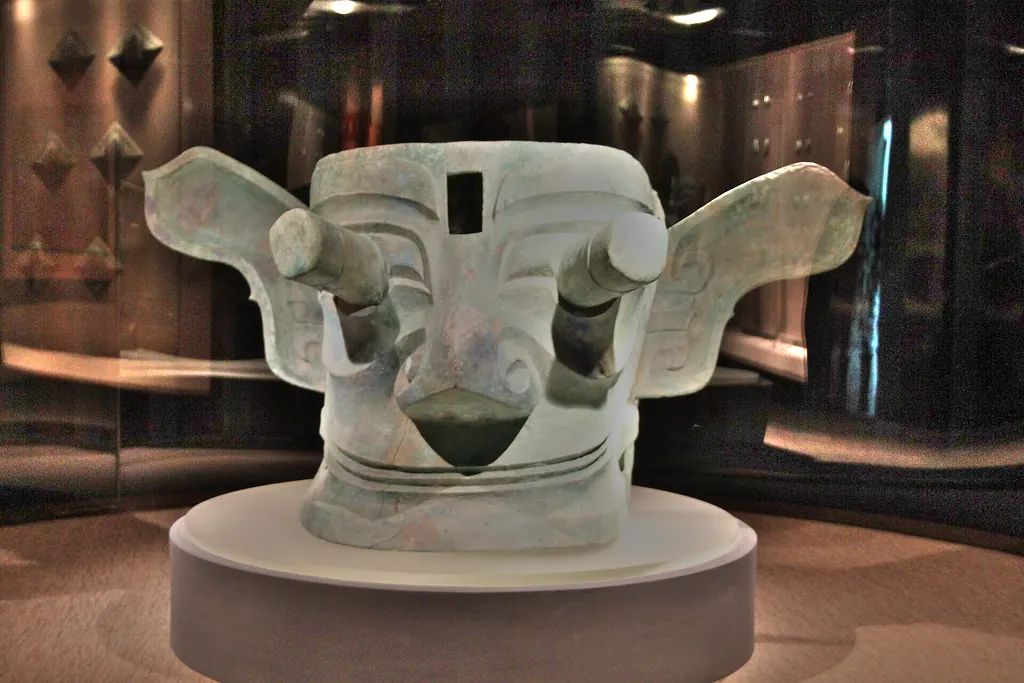
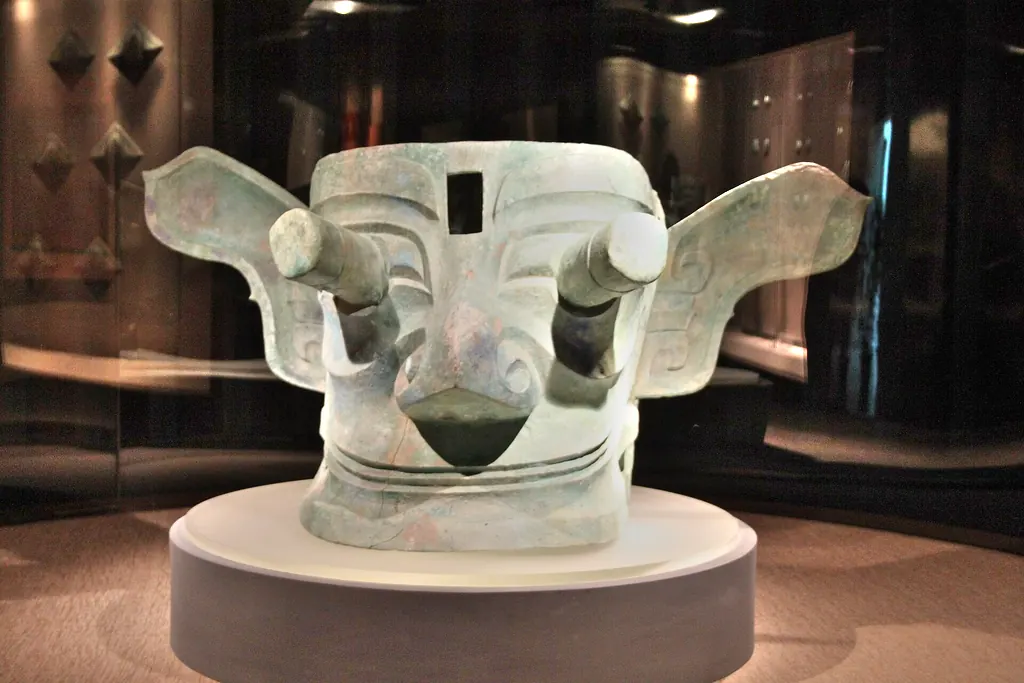
look v0.6.5：颜色贴近原照片、鼻翼卷云做成浮雕、眼眶鼻侧去锯齿

diff --git a/js/look.js b/js/look.js
@@ -1,4 +1,4 @@
-"use strict";const G={NOSEY:.96,NOSE:1.3,JAW:.9,BRISE:.51,LHD:14,LHY:12.5,SHD:8.2,SHY:52.9,BKUP:7,FL:18,RZ:25.32,HW:30,DB:47.43,H:66,TOPDROP:10.11,eye:{u:19.5,y:44.5},pillar:{r:5,len:14.65,dir:[6.79,6.26,17]},ear:{ang:7.92,dz:1.69,root:[[293,190],[260,170],[220,150],[180,140],[150,140],[135,152],[150,190],[185,225],[220,262],[245,292],[243,320],[247,348],[265,362],[293,368]],tip:42}};let ARC=null;function geo(){const t=[0];let n=0,r=0;for(let c=1;c<=400;c++){const d=Math.PI/2*c/400,x=G.HW*Math.sin(d),f=-G.RZ*(1-Math.cos(d));t.push(t[c-1]+Math.hypot(x-n,f-r)),n=x,r=f}ARC=t,G.S0=t[400],G.SM=G.S0+(G.DB-G.RZ)}const sm=(e,t,n)=>{const r=Math.min(1,Math.max(0,(n-e)/(t-e)));return r*r*(3-2*r)},lerpPts=(e,t)=>{if(t<=e[0][0])return e[0][1];for(let n=1;n<e.length;n++)if(t<=e[n][0]){const[r,c]=e[n-1],[d,x]=e[n],f=(t-r)/(d-r),m=f*f*(3-2*f);return c+(x-c)*m}return e[e.length-1][1]};function base(e){ARC||geo();const t=Math.sign(e)||1,n=Math.abs(e),r=ARC.length-1;if(n<=G.S0){let c=0,d=r;for(;d-c>1;){const w=c+d>>1;ARC[w]<n?c=w:d=w}const x=(n-ARC[c])/(ARC[d]-ARC[c]||1),f=Math.PI/2*(c+x)/r,m=G.HW*Math.sin(f),a=-G.RZ*(1-Math.cos(f)),u=G.HW*Math.cos(f),l=-G.RZ*Math.sin(f),h=Math.hypot(u,l);return{x:t*m,z:a,nx:t*-l/h,nz:u/h,q:m}}return{x:t*G.HW,z:-G.RZ-(n-G.S0),nx:t,nz:0,q:G.HW+(n-G.S0)}}const sOfQ=e=>{let t=0,n=G.SM;for(let r=0;r<40;r++){const c=(t+n)/2;base(c).q<e?t=c:n=c}return t},ytop=e=>G.H-G.TOPDROP*sm(G.FL,G.SM,base(e).q+Math.max(0,Math.abs(e)-G.S0)),band=(e,t)=>Math.exp(-(e*e)/(t*t));function segDist(e,t,n){let r=1e9,c=0;for(let d=1;d<n.length;d++){const[x,f]=n[d-1],[m,a]=n[d],u=m-x,l=a-f,h=Math.max(0,Math.min(1,((e-x)*u+(t-f)*l)/(u*u+l*l))),w=e-x-h*u,T=t-f-h*l,o=Math.hypot(w,T);o<r&&(r=o,c=(d-1+h)/(n.length-1))}return[r,c]}const BROW=[[5,49.5],[12,52.5],[20,55],[28,56.5],[33,56]],LID=[[8,47.6],[15,49.2],[23,50.4],[31,51]],GROOVE={top:[[40,55.8],[37.9,51.6],[35.1,49],[29.9,49.5],[27.8,51.6],[22.4,54.1],[11.5,56.7],[6.5,57.1]],brow:[[32.8,44.7],[29.9,45],[28.1,46.5],[23.6,48],[14.2,49.8]],lid:[[30.9,42],[29.9,39.9],[29.1,37.9],[26,37.9],[21.6,39.3],[18,41.1]],cheek:[[30,31.9],[29.4,29.1],[27.3,26.4],[23,25.6],[16.1,26.4],[11,28]]},GW={top:[2.2,1],brow:[2.4,1],lid:[1.8,1],cheek:[2.8,1.6]},MOUTH=[[5.5,14.6],[14.1,14.1],[22.3,14.7],[26.6,16.5],[28.6,19.5],[29.9,23.8]];function relief(e,t){const n=base(e).q;let r=0;{const c=Math.cos(.21),d=Math.sin(.21),x=n-G.eye.u,f=t-G.eye.y,m=(x*c+f*d)/11.5,a=(-x*d+f*c)/5.6,u=m*m+a*a;r+=3*Math.pow(Math.max(0,1-u),.55)}{const[c]=segDist(n,t,BROW);r+=1.6*band(c,1.5);const[d]=segDist(n,t,LID);r+=1.1*band(d,1.1)}if(n<16&&t>12&&t<52){const c=t-G.NOSEY,d=lerpPts([[18,0],[21,9],[24,13.5],[27,15],[32,11],[38,5.5],[44,2],[49,0]],c),x=lerpPts([[18,11],[24,12],[30,10.5],[38,6.5],[48,3.5]],c),f=n/x;f<1&&(r+=G.NOSE*d*Math.pow(1-f*f*f,.8)),r+=2.6*band(Math.hypot(n-9,c-24.5),3.4)}if(n<33){const c=lerpPts(MOUTH,n),d=sm(33,29,n);r+=d*(-2.2*band(t-c,.9)+1.4*band(t-c-1.9,1.2)+1.1*band(t-c+2.1,1.3))}for(const c in GROOVE){const[d,x]=segDist(n,t,GROOVE[c]),[f,m]=GW[c];r-=f*band(d,m)*sm(0,.1,x)*sm(1,.9,x)}return r+=2*Math.exp(-((n-13)*(n-13))/220-(t-31)*(t-31)/160),r*=sm(0,1.5,t-ybot(e))*sm(0,1.2,ytop(e)-t)*sm(0,1.5,G.SM-Math.abs(e)),r}const JAWP=[[0,15],[4,13],[8,11],[13,9.5],[17,9],[19.5,6],[22,3.5],[26,2],[34,.6],[45,0]],jawF=e=>1-sm(G.S0*.25,G.S0+6,Math.abs(e)),ybot=e=>G.BRISE*jawF(e)+G.BKUP*Math.min(1,Math.max(0,(Math.abs(e)-G.S0+6)/(G.SM-G.S0+6))),lean=(e,t)=>G.JAW*lerpPts(JAWP,t)*jawF(e);let DISP={d:4,sig:4,c:[[-.84,-.99,-1.22,-1.34,-1.38,-1.47,-1.45,-.75,.51,.86,.92,1,.84,.55,.33,.06,-.14,-.15],[-.77,-.96,-1.26,-1.36,-1.38,-1.73,-2.24,-2.17,-.77,.34,.88,1.22,1.01,.56,.4,.17,-.06,-.08],[-.59,-.8,-1.12,-1.16,-1.23,-1.88,-2.59,-2.51,-1.17,.06,.65,1.06,.97,.62,.67,.53,.17,0],[-.28,-.51,-.87,-.95,-1.13,-1.58,-1.59,-.71,.33,.56,.29,.26,.65,.84,.97,.86,.47,.28],[0,-.18,-.46,-.62,-.9,-1.04,-.5,.42,.42,.42,.3,.06,.49,.79,.91,.89,.68,.53],[0,-.07,-.14,-.35,-.7,-.77,-.14,.35,-.3,-.21,.13,.16,.52,.8,.93,.95,.79,.66],[-.08,-.11,-.16,-.36,-.71,-.77,-.1,.25,-.3,-.41,-.16,.07,.55,.83,1.02,1.1,.87,.72],[-.13,-.19,-.31,-.54,-.9,-1.09,-.57,-.19,-.49,-.55,-.34,-.1,.37,.51,.69,.93,.79,.68],[-.14,-.23,-.46,-.74,-1.03,-1.18,-.9,-.46,-.61,-.64,-.41,-.18,.17,.15,.2,.5,.59,.6],[-.09,-.19,-.61,-1.02,-1.19,-1.27,-1.13,-.49,-.56,-.77,-.44,-.19,.1,.11,.07,.32,.52,.57],[-.08,-.18,-.79,-1.36,-1.38,-1.33,-1.18,-.74,-.79,-.82,-.4,-.3,0,.16,.17,.39,.62,.65],[-.09,-.15,-.59,-1.28,-1.36,-1.21,-1.11,-1.02,-1.03,-.85,-.39,-.17,.24,.34,.35,.51,.7,.69],[-.12,-.19,-.55,-1.29,-1.27,-.85,-.89,-.92,-.83,-.68,-.38,0,.34,.4,.45,.52,.59,.59],[-.09,-.14,-.43,-1.17,-1.22,-.72,-.73,-.66,-.54,-.48,-.25,.14,.41,.44,.53,.52,.51,.51],[0,0,-.26,-1.11,-1.28,-.85,-.52,.17,.14,-.3,-.18,.29,.56,.59,.66,.6,.51,.48],[0,0,-.21,-.7,-.85,-.55,.39,1.86,1.79,.65,.28,.44,.56,.66,.69,.61,.51,.47],[-.08,-.11,-.22,-.4,-.41,-.06,.81,1.95,2.21,1.63,1.21,1,.75,.75,.71,.61,.51,.46],[-.1,-.13,-.19,-.24,-.16,.18,.81,1.5,1.78,1.6,1.32,1.08,.84,.75,.68,.58,.5,.46]]};function disp(e,t){if(!DISP)return 0;const n=Math.abs(e),r=DISP.d,c=DISP.sig*DISP.sig,d=Math.round(n/r),x=Math.round(t/r);let f=0;for(let m=d-2;m<=d+2;m++)if(!(m<0||m>=DISP.c.length))for(let a=x-2;a<=x+2;a++)a<0||a>=DISP.c[m].length||!DISP.c[m][a]||(f+=DISP.c[m][a]*Math.exp(-((n-m*r)**2+(t-a*r)**2)/c));return f}function shellP(e,t,n=0){const r=base(e),c=relief(e,t)+n+disp(e,t);return[r.x+r.nx*c,t,r.z+r.nz*c+lean(e,t)]}const hole=(e,t)=>{const n=Math.abs(e),r=G.SM-n;return n<3.4&&t>52.8&&t<63.3||r>G.SHD-3.5&&r<G.SHD+3.5&&t>G.SHY-3.5&&t<G.SHY+3.5||r>G.LHD-3&&r<G.LHD+3&&t>G.LHY-3.5&&t<G.LHY+3.5},V={add:(e,t)=>[e[0]+t[0],e[1]+t[1],e[2]+t[2]],sub:(e,t)=>[e[0]-t[0],e[1]-t[1],e[2]-t[2]],mul:(e,t)=>[e[0]*t,e[1]*t,e[2]*t],cross:(e,t)=>[e[1]*t[2]-e[2]*t[1],e[2]*t[0]-e[0]*t[2],e[0]*t[1]-e[1]*t[0]],dot:(e,t)=>e[0]*t[0]+e[1]*t[1]+e[2]*t[2],norm:e=>{const t=Math.hypot(e[0],e[1],e[2])||1;return[e[0]/t,e[1]/t,e[2]/t]}};function pillarFrame(e){const t=shellP(e*sOfQ(G.eye.u),G.eye.y,-1.5),n=V.norm([e*G.pillar.dir[0],G.pillar.dir[1],G.pillar.dir[2]]);return{B:t,D:n,T:V.add(t,V.mul(n,G.pillar.len+1.5))}}function earPts(e){const t=G.ear.root.map(([x,f])=>[(293-x)/4.96/.91,(503-f)/5.5]),n=G.ear.tip/Math.max(...t.map(x=>x[0])),r=G.ear.ang*Math.PI/180,c=[e*Math.cos(r),0,-Math.sin(r)],d=[e*G.HW,0,-G.DB+.3+(G.ear.dz||0)];return{uv:t.map(([x,f])=>[x*n,f]),h:c,O:d,n:[e*Math.sin(r),0,Math.cos(r)]}}function buildMask(){geo();const e=[],t=[],n=[],r=[],c=(m,a,u,l,h)=>(e.push(m[0],m[1],m[2]),t.push(a[0],a[1],a[2]),n.push(u,l,h),e.length/3-1),d=Math.ceil(2*G.SM/.6),x=110,f=[];for(let m=0;m<=d;m++){const a=-G.SM+2*G.SM*m/d,u=ytop(a),l=ybot(a);f.push([]);for(let h=0;h<=x;h++){const w=l+(u-l)*h/x,T=.05,o=shellP(a,w),A=V.sub(shellP(a+T,w),shellP(a-T,w)),D=V.sub(shellP(a,Math.min(u,w+T)),shellP(a,Math.max(l,w-T)));f[m].push(c(o,V.norm(V.cross(A,D)),0,a,w))}}for(let m=0;m<d;m++)for(let a=0;a<x;a++){const u=f[m][a],l=f[m+1][a],h=f[m+1][a+1],w=f[m][a+1];r.push(u,l,h,u,h,w)}for(const m of[-1,1]){const{B:a,D:u}=pillarFrame(m),l=V.norm(V.cross(V.cross(u,[0,1,0]),u)),h=V.cross(u,l),w=28,T=18,o=G.pillar.len+1.5,A=-3,D=e.length/3;for(let s=0;s<=T;s++){const v=s/T,g=A+(o-A)*v,b=g/o,I=G.pillar.r*(1+.07*band(b-.86,.035)-.015*b);for(let S=0;S<=w;S++){const L=2*Math.PI*S/w,_=V.add(V.mul(l,Math.cos(L)),V.mul(h,Math.sin(L)));c(V.add(V.add(a,V.mul(u,g)),V.mul(_,I)),_,1,m,b)}}for(let s=0;s<T;s++)for(let v=0;v<w;v++){const g=D+s*(w+1)+v,b=g+w+1;r.push(g,b,b+1,g,b+1,g+1)}const H=c(V.add(a,V.mul(u,o+.25)),u,1,m,1.01),y=e.length/3;for(let s=0;s<=w;s++){const v=2*Math.PI*s/w,g=V.add(V.mul(l,Math.cos(v)),V.mul(h,Math.sin(v)));c(V.add(V.add(a,V.mul(u,o)),V.mul(g,G.pillar.r*.985)),V.norm(V.add(u,V.mul(g,.35))),1,m,1)}for(let s=0;s<w;s++)r.push(H,y+s,y+s+1)}for(const m of[-1,1]){const a=earPts(m),u=a.uv.slice(),l=u.map((s,v)=>v),h=[],w=u.reduce((s,v,g)=>{const b=u[(g+1)%u.length];return s+v[0]*b[1]-b[0]*v[1]},0),T=w>0,o=(s,v,g)=>(v[0]-s[0])*(g[1]-s[1])-(v[1]-s[1])*(g[0]-s[0]),A=(s,v,g,b)=>{const I=o(v,g,s),S=o(g,b,s),L=o(b,v,s);return T?I>0&&S>0&&L>0:I<0&&S<0&&L<0};let D=0;for(;l.length>3&&D++<999;)for(let s=0;s<l.length;s++){const v=l[(s+l.length-1)%l.length],g=l[s],b=l[(s+1)%l.length],I=u[v],S=u[g],L=u[b],_=o(I,S,L);if(!(T?_<=0:_>=0)&&!l.some(F=>F!==v&&F!==g&&F!==b&&A(u[F],I,S,L))){h.push([I,S,L]),l.splice(s,1);break}}h.push(l.map(s=>u[s]));let H=h;for(let s=0;s<3;s++){const v=[];for(const[g,b,I]of H){const S=(N,O)=>[(N[0]+O[0])/2,(N[1]+O[1])/2],L=S(g,b),_=S(b,I),F=S(I,g);v.push([g,L,F],[L,b,_],[F,_,I],[L,_,F])}H=v}const y=([s,v])=>{const g=.012*s*s*.25;return V.add(V.add(a.O,V.mul(a.h,s)),V.add([0,v,0],V.mul(a.n,g)))};for(const s of H)for(const v of s){const g=y(v),b=.006*v[0]*.5;r.push(c(g,V.norm(V.sub(a.n,V.mul(a.h,b))),2,v[0],v[1]))}}return{P:new Float32Array(e),N:new Float32Array(t),A:new Float32Array(n),I:new Uint16Array(r)}}function marks(){geo();const e=pillarFrame(-1),t=pillarFrame(1),n=earPts(-1),r=earPts(1),c=f=>{const m=f.uv.reduce((a,u)=>u[0]>a[0]?u:a);return V.add(V.add(f.O,V.mul(f.h,m[0])),[0,m[1],0])},d=sOfQ(29),x=(f,m,a)=>{let u=null;for(let l=f;l<=m;l+=.05){const h=shellP(0,l);(!u||a*h[2]>a*u[2])&&(u=h)}return u};return{H:shellP(0,58),PL:e.T,PR:t.T,N:shellP(0,27+G.NOSEY),EL:c(n),ER:c(r),TL:shellP(-d,ytop(d)),TR:shellP(d,ytop(d)),BL:shellP(-G.S0,ybot(G.S0)),BR:shellP(G.S0,ybot(G.S0)),SL:shellP(-(G.SM-G.SHD),G.SHY),SR:shellP(G.SM-G.SHD,G.SHY),EYL:shellP(-sOfQ(G.eye.u),G.eye.y),EYR:shellP(sOfQ(G.eye.u),G.eye.y),KL:shellP(-G.SM,ytop(G.SM)),KR:shellP(G.SM,ytop(G.SM)),NI:shellP(0,31),BKL:shellP(-G.SM,ybot(G.SM)),BKR:shellP(G.SM,ybot(G.SM)),FT:shellP(0,G.H-.01),CH:shellP(0,ybot(0)+.01),NT:x(15,45,1),MR:x(17,28,-1),LHL:shellP(-(G.SM-G.LHD),G.LHY),LHR:shellP(G.SM-G.LHD,G.LHY)}}typeof module!="undefined"&&(module.exports={buildMask,marks,G,geo,setDisp:e=>{DISP=e},getDisp:()=>DISP,disp,shellP,uOfS:e=>base(e).q,sOfQ,relief});const CAMS={C0:[0,33,-15],cams:{a:[1759.19448,-.09916,.06873,-.00799,444.85047,323.57364,332.40516],c:[1817.05034,1.13481,.05479,.02231,572.51846,332.36423,295.54044],e:[1735.38662,-1.06238,.17511,-.02144,385.85542,323.03339,270.73041],d:[1027.06939,3.11928,.19777,-.0041,459.1956,347.48563,132.67155]}},PHOTOS=[["a","\u6B63\u9762"],["c","\u5DE6\u4FA7"],["e","\u53F3\u4FA7"],["d","\u80CC\u9762\uFF08\u5185\u58C1\uFF09"]];function camR(e,t,n){const r=Math.cos(e),c=Math.sin(e),d=Math.cos(t),x=Math.sin(t),f=Math.cos(n),m=Math.sin(n),a=[[r,0,c],[0,1,0],[-c,0,r]],u=[[1,0,0],[0,d,-x],[0,x,d]],l=[[f,-m,0],[m,f,0],[0,0,1]],h=(w,T)=>w.map(o=>T[0].map((A,D)=>o.reduce((H,y,s)=>H+y*T[s][D],0)));return h(l,h(u,a))}function camOf(e){const[t,n,r,c,d,x,f]=CAMS.cams[e],m=camR(n,r,c),a=CAMS.C0,u=[0,1,2].map(l=>a[l]+m[2][l]*f);return{f:t,R:m,tx:d,ty:x,dist:f,pos:u,C0:a}}function projCam(e,t){const n=[t[0]-e.C0[0],t[1]-e.C0[1],t[2]-e.C0[2]],r=e.R.map(d=>d[0]*n[0]+d[1]*n[1]+d[2]*n[2]),c=e.dist-r[2];return[e.tx+e.f*r[0]/c,e.ty-e.f*r[1]/c,r[2]]}function visibility(e,t){const n=e.P.length/3,r=new Float32Array(n*4),c=480,d=320,x=.5;return t.forEach((f,m)=>{const a=new Float32Array(n*3);for(let l=0;l<n;l++){const h=projCam(f,[e.P[l*3],e.P[l*3+1],e.P[l*3+2]]);a[l*3]=h[0]*x,a[l*3+1]=h[1]*x,a[l*3+2]=h[2]}const u=new Float32Array(c*d).fill(-1e9);for(let l=0;l<e.I.length;l+=3){const h=e.I[l]*3,w=e.I[l+1]*3,T=e.I[l+2]*3,o=a[h],A=a[h+1],D=a[w],H=a[w+1],y=a[T],s=a[T+1],v=(H-s)*(o-y)+(y-D)*(A-s);if(Math.abs(v)<1e-9)continue;const g=Math.max(0,Math.floor(Math.min(o,D,y))),b=Math.min(c-1,Math.ceil(Math.max(o,D,y))),I=Math.max(0,Math.floor(Math.min(A,H,s))),S=Math.min(d-1,Math.ceil(Math.max(A,H,s)));for(let L=I;L<=S;L++)for(let _=g;_<=b;_++){const F=((H-s)*(_-y)+(y-D)*(L-s))/v,N=((s-A)*(_-y)+(o-y)*(L-s))/v,O=1-F-N;if(F<-.01||N<-.01||O<-.01)continue;const B=F*a[h+2]+N*a[w+2]+O*a[T+2],k=L*c+_;B>u[k]&&(u[k]=B)}}for(let l=0;l<n;l++){const h=Math.round(a[l*3]),w=Math.round(a[l*3+1]);let T=0,o=0;for(let A=-1;A<=1;A++)for(let D=-1;D<=1;D++){const H=h+D,y=w+A;o++,!(H<0||y<0||H>=c||y>=d)&&a[l*3+2]>=u[y*c+H]-1.2&&T++}r[l*4+m]=T/o}}),r}typeof module!="undefined"&&Object.assign(module.exports,{CAMS,camOf,projCam,visibility}),typeof document!="undefined"&&function(){const e=document.getElementById("gl"),t=e.getContext("webgl",{antialias:!0,preserveDrawingBuffer:/[?&]shot/.test(location.search)}),n=i=>document.getElementById(i);if(!t){n("msg").textContent="\u8FD9\u53F0\u624B\u673A\u7684\u6D4F\u89C8\u5668\u4E0D\u652F\u6301 WebGL\uFF0C\u770B\u4E0D\u4E86 3D\u3002\u53EF\u4EE5\u770B\u4E0B\u9762\u7684\u539F\u7167\u7247\u3002";return}const r=buildMask(),c=PHOTOS.map(([i])=>camOf(i)),d=visibility(r,c),x=`attribute vec3 p; attribute vec3 n; attribute vec3 a; attribute vec4 v; uniform mat4 VP; varying vec3 wp; varying vec3 wn; varying vec3 wa; varying vec4 vv;
+"use strict";const G={NOSEY:.96,NOSE:1.3,JAW:.9,BRISE:.51,LHD:14,LHY:12.5,SHD:8.2,SHY:52.9,BKUP:7,FL:18,RZ:25.32,HW:30,DB:47.43,H:66,TOPDROP:10.11,eye:{u:19.5,y:44.5},pillar:{r:5,len:14.65,dir:[6.79,6.26,17]},ear:{ang:7.92,dz:1.69,root:[[293,190],[260,170],[220,150],[180,140],[150,140],[135,152],[150,190],[185,225],[220,262],[245,292],[243,320],[247,348],[265,362],[293,368]],tip:42}};let ARC=null;function geo(){const t=[0];let n=0,a=0;for(let c=1;c<=400;c++){const u=Math.PI/2*c/400,x=G.HW*Math.sin(u),f=-G.RZ*(1-Math.cos(u));t.push(t[c-1]+Math.hypot(x-n,f-a)),n=x,a=f}ARC=t,G.S0=t[400],G.SM=G.S0+(G.DB-G.RZ)}const sm=(e,t,n)=>{const a=Math.min(1,Math.max(0,(n-e)/(t-e)));return a*a*(3-2*a)},lerpPts=(e,t)=>{if(t<=e[0][0])return e[0][1];for(let n=1;n<e.length;n++)if(t<=e[n][0]){const[a,c]=e[n-1],[u,x]=e[n],f=(t-a)/(u-a),m=f*f*(3-2*f);return c+(x-c)*m}return e[e.length-1][1]};function base(e){ARC||geo();const t=Math.sign(e)||1,n=Math.abs(e),a=ARC.length-1;if(n<=G.S0){let c=0,u=a;for(;u-c>1;){const w=c+u>>1;ARC[w]<n?c=w:u=w}const x=(n-ARC[c])/(ARC[u]-ARC[c]||1),f=Math.PI/2*(c+x)/a,m=G.HW*Math.sin(f),r=-G.RZ*(1-Math.cos(f)),d=G.HW*Math.cos(f),s=-G.RZ*Math.sin(f),h=Math.hypot(d,s);return{x:t*m,z:r,nx:t*-s/h,nz:d/h,q:m}}return{x:t*G.HW,z:-G.RZ-(n-G.S0),nx:t,nz:0,q:G.HW+(n-G.S0)}}const sOfQ=e=>{let t=0,n=G.SM;for(let a=0;a<40;a++){const c=(t+n)/2;base(c).q<e?t=c:n=c}return t},ytop=e=>G.H-G.TOPDROP*sm(G.FL,G.SM,base(e).q+Math.max(0,Math.abs(e)-G.S0)),band=(e,t)=>Math.exp(-(e*e)/(t*t));function segDist(e,t,n){let a=1e9,c=0;for(let u=1;u<n.length;u++){const[x,f]=n[u-1],[m,r]=n[u],d=m-x,s=r-f,h=Math.max(0,Math.min(1,((e-x)*d+(t-f)*s)/(d*d+s*s))),w=e-x-h*d,T=t-f-h*s,o=Math.hypot(w,T);o<a&&(a=o,c=(u-1+h)/(n.length-1))}return[a,c]}const BROW=[[5,49.5],[12,52.5],[20,55],[28,56.5],[33,56]],LID=[[8,47.6],[15,49.2],[23,50.4],[31,51]],GROOVE={top:[[40,55.8],[37.9,51.6],[35.1,49],[29.9,49.5],[27.8,51.6],[22.4,54.1],[11.5,56.7],[6.5,57.1]],brow:[[32.8,44.7],[29.9,45],[28.1,46.5],[23.6,48],[14.2,49.8]],lid:[[30.9,42],[29.9,39.9],[29.1,37.9],[26,37.9],[21.6,39.3],[18,41.1]],cheek:[[30,31.9],[29.4,29.1],[27.3,26.4],[23,25.6],[16.1,26.4],[11,28]]},GW={top:[2.2,1],brow:[2.4,1],lid:[1.8,1],cheek:[2.8,1.6]},CURL=[[9,30],[8,32.2],[6.8,33.6],[5.3,33.6],[3.4,32.4],[3.1,30.6],[4.4,28.5],[3.7,26.4],[4.4,25.5]],MOUTH=[[5.5,14.6],[14.1,14.1],[22.3,14.7],[26.6,16.5],[28.6,19.5],[29.9,23.8]];function relief(e,t){const n=base(e).q;let a=0;{const c=Math.cos(.21),u=Math.sin(.21),x=n-G.eye.u,f=t-G.eye.y,m=(x*c+f*u)/11.5,r=(-x*u+f*c)/5.6,d=m*m+r*r,s=Math.max(0,1-d);a+=3*Math.pow(s,.55)*sm(0,.45,s)}{const[c]=segDist(n,t,BROW);a+=1.6*band(c,1.5);const[u]=segDist(n,t,LID);a+=1.1*band(u,1.1)}if(n<16&&t>12&&t<52){const c=t-G.NOSEY,u=lerpPts([[18,0],[21,9],[24,13.5],[27,15],[32,11],[38,5.5],[44,2],[49,0]],c),x=lerpPts([[18,11],[24,12],[30,10.5],[38,6.5],[48,3.5]],c),f=n/x;f<1&&(a+=G.NOSE*u*Math.pow(1-f*f*f,.8)*sm(1,.62,f)),a+=2.6*band(Math.hypot(n-7,t-29),3.6)}if(n<14&&t>20&&t<38){const[c]=segDist(n,t,CURL);a-=1.3*band(c,.85);const u=Math.hypot(n-7.7,t-28.2);a+=.7*band(u-1.9,.8)-1.8*band(u,1.1)}if(n<33){const c=lerpPts(MOUTH,n),u=sm(33,29,n);a+=u*(-2.2*band(t-c,.9)+1.4*band(t-c-1.9,1.2)+1.1*band(t-c+2.1,1.3))}for(const c in GROOVE){const[u,x]=segDist(n,t,GROOVE[c]),[f,m]=GW[c];a-=f*band(u,m)*sm(0,.1,x)*sm(1,.9,x)}return a+=2*Math.exp(-((n-13)*(n-13))/220-(t-31)*(t-31)/160),a*=sm(0,1.5,t-ybot(e))*sm(0,1.2,ytop(e)-t)*sm(0,1.5,G.SM-Math.abs(e)),a}const JAWP=[[0,15],[4,13],[8,11],[13,9.5],[17,9],[19.5,6],[22,3.5],[26,2],[34,.6],[45,0]],jawF=e=>1-sm(G.S0*.25,G.S0+6,Math.abs(e)),ybot=e=>G.BRISE*jawF(e)+G.BKUP*Math.min(1,Math.max(0,(Math.abs(e)-G.S0+6)/(G.SM-G.S0+6))),lean=(e,t)=>G.JAW*lerpPts(JAWP,t)*jawF(e);let DISP={d:4,sig:4,c:[[-.84,-.99,-1.22,-1.34,-1.38,-1.47,-1.45,-.75,.51,.86,.92,1,.84,.55,.33,.06,-.14,-.15],[-.77,-.96,-1.26,-1.36,-1.38,-1.73,-2.24,-2.17,-.77,.34,.88,1.22,1.01,.56,.4,.17,-.06,-.08],[-.59,-.8,-1.12,-1.16,-1.23,-1.88,-2.59,-2.51,-1.17,.06,.65,1.06,.97,.62,.67,.53,.17,0],[-.28,-.51,-.87,-.95,-1.13,-1.58,-1.59,-.71,.33,.56,.29,.26,.65,.84,.97,.86,.47,.28],[0,-.18,-.46,-.62,-.9,-1.04,-.5,.42,.42,.42,.3,.06,.49,.79,.91,.89,.68,.53],[0,-.07,-.14,-.35,-.7,-.77,-.14,.35,-.3,-.21,.13,.16,.52,.8,.93,.95,.79,.66],[-.08,-.11,-.16,-.36,-.71,-.77,-.1,.25,-.3,-.41,-.16,.07,.55,.83,1.02,1.1,.87,.72],[-.13,-.19,-.31,-.54,-.9,-1.09,-.57,-.19,-.49,-.55,-.34,-.1,.37,.51,.69,.93,.79,.68],[-.14,-.23,-.46,-.74,-1.03,-1.18,-.9,-.46,-.61,-.64,-.41,-.18,.17,.15,.2,.5,.59,.6],[-.09,-.19,-.61,-1.02,-1.19,-1.27,-1.13,-.49,-.56,-.77,-.44,-.19,.1,.11,.07,.32,.52,.57],[-.08,-.18,-.79,-1.36,-1.38,-1.33,-1.18,-.74,-.79,-.82,-.4,-.3,0,.16,.17,.39,.62,.65],[-.09,-.15,-.59,-1.28,-1.36,-1.21,-1.11,-1.02,-1.03,-.85,-.39,-.17,.24,.34,.35,.51,.7,.69],[-.12,-.19,-.55,-1.29,-1.27,-.85,-.89,-.92,-.83,-.68,-.38,0,.34,.4,.45,.52,.59,.59],[-.09,-.14,-.43,-1.17,-1.22,-.72,-.73,-.66,-.54,-.48,-.25,.14,.41,.44,.53,.52,.51,.51],[0,0,-.26,-1.11,-1.28,-.85,-.52,.17,.14,-.3,-.18,.29,.56,.59,.66,.6,.51,.48],[0,0,-.21,-.7,-.85,-.55,.39,1.86,1.79,.65,.28,.44,.56,.66,.69,.61,.51,.47],[-.08,-.11,-.22,-.4,-.41,-.06,.81,1.95,2.21,1.63,1.21,1,.75,.75,.71,.61,.51,.46],[-.1,-.13,-.19,-.24,-.16,.18,.81,1.5,1.78,1.6,1.32,1.08,.84,.75,.68,.58,.5,.46]]};function disp(e,t){if(!DISP)return 0;const n=Math.abs(e),a=DISP.d,c=DISP.sig*DISP.sig,u=Math.round(n/a),x=Math.round(t/a);let f=0;for(let m=u-2;m<=u+2;m++)if(!(m<0||m>=DISP.c.length))for(let r=x-2;r<=x+2;r++)r<0||r>=DISP.c[m].length||!DISP.c[m][r]||(f+=DISP.c[m][r]*Math.exp(-((n-m*a)**2+(t-r*a)**2)/c));return f}function shellP(e,t,n=0){const a=base(e),c=relief(e,t)+n+disp(e,t);return[a.x+a.nx*c,t,a.z+a.nz*c+lean(e,t)]}const hole=(e,t)=>{const n=Math.abs(e),a=G.SM-n;return n<3.4&&t>52.8&&t<63.3||a>G.SHD-3.5&&a<G.SHD+3.5&&t>G.SHY-3.5&&t<G.SHY+3.5||a>G.LHD-3&&a<G.LHD+3&&t>G.LHY-3.5&&t<G.LHY+3.5},V={add:(e,t)=>[e[0]+t[0],e[1]+t[1],e[2]+t[2]],sub:(e,t)=>[e[0]-t[0],e[1]-t[1],e[2]-t[2]],mul:(e,t)=>[e[0]*t,e[1]*t,e[2]*t],cross:(e,t)=>[e[1]*t[2]-e[2]*t[1],e[2]*t[0]-e[0]*t[2],e[0]*t[1]-e[1]*t[0]],dot:(e,t)=>e[0]*t[0]+e[1]*t[1]+e[2]*t[2],norm:e=>{const t=Math.hypot(e[0],e[1],e[2])||1;return[e[0]/t,e[1]/t,e[2]/t]}};function pillarFrame(e){const t=shellP(e*sOfQ(G.eye.u),G.eye.y,-1.5),n=V.norm([e*G.pillar.dir[0],G.pillar.dir[1],G.pillar.dir[2]]);return{B:t,D:n,T:V.add(t,V.mul(n,G.pillar.len+1.5))}}function earPts(e){const t=G.ear.root.map(([x,f])=>[(293-x)/4.96/.91,(503-f)/5.5]),n=G.ear.tip/Math.max(...t.map(x=>x[0])),a=G.ear.ang*Math.PI/180,c=[e*Math.cos(a),0,-Math.sin(a)],u=[e*G.HW,0,-G.DB+.3+(G.ear.dz||0)];return{uv:t.map(([x,f])=>[x*n,f]),h:c,O:u,n:[e*Math.sin(a),0,Math.cos(a)]}}function buildMask(){geo();const e=[],t=[],n=[],a=[],c=(m,r,d,s,h)=>(e.push(m[0],m[1],m[2]),t.push(r[0],r[1],r[2]),n.push(d,s,h),e.length/3-1),u=Math.ceil(2*G.SM/.5),x=132,f=[];for(let m=0;m<=u;m++){const r=-G.SM+2*G.SM*m/u,d=ytop(r),s=ybot(r);f.push([]);for(let h=0;h<=x;h++){const w=s+(d-s)*h/x,T=.05,o=shellP(r,w),A=V.sub(shellP(r+T,w),shellP(r-T,w)),D=V.sub(shellP(r,Math.min(d,w+T)),shellP(r,Math.max(s,w-T)));f[m].push(c(o,V.norm(V.cross(A,D)),0,r,w))}}for(let m=0;m<u;m++)for(let r=0;r<x;r++){const d=f[m][r],s=f[m+1][r],h=f[m+1][r+1],w=f[m][r+1];a.push(d,s,h,d,h,w)}for(const m of[-1,1]){const{B:r,D:d}=pillarFrame(m),s=V.norm(V.cross(V.cross(d,[0,1,0]),d)),h=V.cross(d,s),w=28,T=18,o=G.pillar.len+1.5,A=-3,D=e.length/3;for(let l=0;l<=T;l++){const v=l/T,g=A+(o-A)*v,y=g/o,I=G.pillar.r*(1+.07*band(y-.86,.035)-.015*y);for(let S=0;S<=w;S++){const L=2*Math.PI*S/w,_=V.add(V.mul(s,Math.cos(L)),V.mul(h,Math.sin(L)));c(V.add(V.add(r,V.mul(d,g)),V.mul(_,I)),_,1,m,y)}}for(let l=0;l<T;l++)for(let v=0;v<w;v++){const g=D+l*(w+1)+v,y=g+w+1;a.push(g,y,y+1,g,y+1,g+1)}const H=c(V.add(r,V.mul(d,o+.25)),d,1,m,1.01),b=e.length/3;for(let l=0;l<=w;l++){const v=2*Math.PI*l/w,g=V.add(V.mul(s,Math.cos(v)),V.mul(h,Math.sin(v)));c(V.add(V.add(r,V.mul(d,o)),V.mul(g,G.pillar.r*.985)),V.norm(V.add(d,V.mul(g,.35))),1,m,1)}for(let l=0;l<w;l++)a.push(H,b+l,b+l+1)}for(const m of[-1,1]){const r=earPts(m),d=r.uv.slice(),s=d.map((l,v)=>v),h=[],w=d.reduce((l,v,g)=>{const y=d[(g+1)%d.length];return l+v[0]*y[1]-y[0]*v[1]},0),T=w>0,o=(l,v,g)=>(v[0]-l[0])*(g[1]-l[1])-(v[1]-l[1])*(g[0]-l[0]),A=(l,v,g,y)=>{const I=o(v,g,l),S=o(g,y,l),L=o(y,v,l);return T?I>0&&S>0&&L>0:I<0&&S<0&&L<0};let D=0;for(;s.length>3&&D++<999;)for(let l=0;l<s.length;l++){const v=s[(l+s.length-1)%s.length],g=s[l],y=s[(l+1)%s.length],I=d[v],S=d[g],L=d[y],_=o(I,S,L);if(!(T?_<=0:_>=0)&&!s.some(F=>F!==v&&F!==g&&F!==y&&A(d[F],I,S,L))){h.push([I,S,L]),s.splice(l,1);break}}h.push(s.map(l=>d[l]));let H=h;for(let l=0;l<3;l++){const v=[];for(const[g,y,I]of H){const S=(N,O)=>[(N[0]+O[0])/2,(N[1]+O[1])/2],L=S(g,y),_=S(y,I),F=S(I,g);v.push([g,L,F],[L,y,_],[F,_,I],[L,_,F])}H=v}const b=([l,v])=>{const g=.012*l*l*.25;return V.add(V.add(r.O,V.mul(r.h,l)),V.add([0,v,0],V.mul(r.n,g)))};for(const l of H)for(const v of l){const g=b(v),y=.006*v[0]*.5;a.push(c(g,V.norm(V.sub(r.n,V.mul(r.h,y))),2,v[0],v[1]))}}return{P:new Float32Array(e),N:new Float32Array(t),A:new Float32Array(n),I:new Uint16Array(a)}}function marks(){geo();const e=pillarFrame(-1),t=pillarFrame(1),n=earPts(-1),a=earPts(1),c=f=>{const m=f.uv.reduce((r,d)=>d[0]>r[0]?d:r);return V.add(V.add(f.O,V.mul(f.h,m[0])),[0,m[1],0])},u=sOfQ(29),x=(f,m,r)=>{let d=null;for(let s=f;s<=m;s+=.05){const h=shellP(0,s);(!d||r*h[2]>r*d[2])&&(d=h)}return d};return{H:shellP(0,58),PL:e.T,PR:t.T,N:shellP(0,27+G.NOSEY),EL:c(n),ER:c(a),TL:shellP(-u,ytop(u)),TR:shellP(u,ytop(u)),BL:shellP(-G.S0,ybot(G.S0)),BR:shellP(G.S0,ybot(G.S0)),SL:shellP(-(G.SM-G.SHD),G.SHY),SR:shellP(G.SM-G.SHD,G.SHY),EYL:shellP(-sOfQ(G.eye.u),G.eye.y),EYR:shellP(sOfQ(G.eye.u),G.eye.y),KL:shellP(-G.SM,ytop(G.SM)),KR:shellP(G.SM,ytop(G.SM)),NI:shellP(0,31),BKL:shellP(-G.SM,ybot(G.SM)),BKR:shellP(G.SM,ybot(G.SM)),FT:shellP(0,G.H-.01),CH:shellP(0,ybot(0)+.01),NT:x(15,45,1),MR:x(17,28,-1),LHL:shellP(-(G.SM-G.LHD),G.LHY),LHR:shellP(G.SM-G.LHD,G.LHY)}}typeof module!="undefined"&&(module.exports={buildMask,marks,G,geo,setDisp:e=>{DISP=e},getDisp:()=>DISP,disp,shellP,uOfS:e=>base(e).q,sOfQ,relief});const CAMS={C0:[0,33,-15],cams:{a:[1759.19448,-.09916,.06873,-.00799,444.85047,323.57364,332.40516],c:[1817.05034,1.13481,.05479,.02231,572.51846,332.36423,295.54044],e:[1735.38662,-1.06238,.17511,-.02144,385.85542,323.03339,270.73041],d:[1027.06939,3.11928,.19777,-.0041,459.1956,347.48563,132.67155]}},PHOTOS=[["a","\u6B63\u9762"],["c","\u5DE6\u4FA7"],["e","\u53F3\u4FA7"],["d","\u80CC\u9762\uFF08\u5185\u58C1\uFF09"]];function camR(e,t,n){const a=Math.cos(e),c=Math.sin(e),u=Math.cos(t),x=Math.sin(t),f=Math.cos(n),m=Math.sin(n),r=[[a,0,c],[0,1,0],[-c,0,a]],d=[[1,0,0],[0,u,-x],[0,x,u]],s=[[f,-m,0],[m,f,0],[0,0,1]],h=(w,T)=>w.map(o=>T[0].map((A,D)=>o.reduce((H,b,l)=>H+b*T[l][D],0)));return h(s,h(d,r))}function camOf(e){const[t,n,a,c,u,x,f]=CAMS.cams[e],m=camR(n,a,c),r=CAMS.C0,d=[0,1,2].map(s=>r[s]+m[2][s]*f);return{f:t,R:m,tx:u,ty:x,dist:f,pos:d,C0:r}}function projCam(e,t){const n=[t[0]-e.C0[0],t[1]-e.C0[1],t[2]-e.C0[2]],a=e.R.map(u=>u[0]*n[0]+u[1]*n[1]+u[2]*n[2]),c=e.dist-a[2];return[e.tx+e.f*a[0]/c,e.ty-e.f*a[1]/c,a[2]]}function visibility(e,t){const n=e.P.length/3,a=new Float32Array(n*4),c=480,u=320,x=.5;return t.forEach((f,m)=>{const r=new Float32Array(n*3);for(let s=0;s<n;s++){const h=projCam(f,[e.P[s*3],e.P[s*3+1],e.P[s*3+2]]);r[s*3]=h[0]*x,r[s*3+1]=h[1]*x,r[s*3+2]=h[2]}const d=new Float32Array(c*u).fill(-1e9);for(let s=0;s<e.I.length;s+=3){const h=e.I[s]*3,w=e.I[s+1]*3,T=e.I[s+2]*3,o=r[h],A=r[h+1],D=r[w],H=r[w+1],b=r[T],l=r[T+1],v=(H-l)*(o-b)+(b-D)*(A-l);if(Math.abs(v)<1e-9)continue;const g=Math.max(0,Math.floor(Math.min(o,D,b))),y=Math.min(c-1,Math.ceil(Math.max(o,D,b))),I=Math.max(0,Math.floor(Math.min(A,H,l))),S=Math.min(u-1,Math.ceil(Math.max(A,H,l)));for(let L=I;L<=S;L++)for(let _=g;_<=y;_++){const F=((H-l)*(_-b)+(b-D)*(L-l))/v,N=((l-A)*(_-b)+(o-b)*(L-l))/v,O=1-F-N;if(F<-.01||N<-.01||O<-.01)continue;const B=F*r[h+2]+N*r[w+2]+O*r[T+2],k=L*c+_;B>d[k]&&(d[k]=B)}}for(let s=0;s<n;s++){const h=Math.round(r[s*3]),w=Math.round(r[s*3+1]);let T=0,o=0;for(let A=-1;A<=1;A++)for(let D=-1;D<=1;D++){const H=h+D,b=w+A;o++,!(H<0||b<0||H>=c||b>=u)&&r[s*3+2]>=d[b*c+H]-1.2&&T++}a[s*4+m]=T/o}}),a}typeof module!="undefined"&&Object.assign(module.exports,{CAMS,camOf,projCam,visibility}),typeof document!="undefined"&&function(){const e=document.getElementById("gl"),t=e.getContext("webgl",{antialias:!0,preserveDrawingBuffer:/[?&]shot/.test(location.search)}),n=i=>document.getElementById(i);if(!t){n("msg").textContent="\u8FD9\u53F0\u624B\u673A\u7684\u6D4F\u89C8\u5668\u4E0D\u652F\u6301 WebGL\uFF0C\u770B\u4E0D\u4E86 3D\u3002\u53EF\u4EE5\u770B\u4E0B\u9762\u7684\u539F\u7167\u7247\u3002";return}const a=buildMask(),c=PHOTOS.map(([i])=>camOf(i)),u=visibility(a,c),x=`attribute vec3 p; attribute vec3 n; attribute vec3 a; attribute vec4 v; uniform mat4 VP; varying vec3 wp; varying vec3 wn; varying vec3 wa; varying vec4 vv;
     void main(){ wp=p; wn=n; wa=a; vv=v; gl_Position=VP*vec4(p,1.); }`,f=`precision highp float; varying vec3 wp; varying vec3 wn; varying vec3 wa; varying vec4 vv;
     uniform sampler2D T0; uniform sampler2D T1; uniform sampler2D T2; uniform sampler2D T3;
     uniform mat3 R0; uniform mat3 R1; uniform mat3 R2; uniform mat3 R3; uniform vec4 K0; uniform vec4 K1; uniform vec4 K2; uniform vec4 K3; uniform vec3 P0; uniform vec3 P1; uniform vec3 P2; uniform vec3 P3; uniform vec3 C0;
@@ -10,17 +10,18 @@
     void main(){
       if(holeAt(wa)) discard;
       vec3 N=normalize(wn); vec3 V=normalize(eye-wp); float sd=dot(N,V)<0.?-1.:1.; vec3 Nf=N*sd;
-      vec4 col=vec4(0.); vec2 u; float w;
-      u=uvOf(R0,K0,wp); w=vv.x*pow(max(dot(Nf,normalize(P0-wp)),0.),2.5)*inb(u)*1.6; col+=vec4(texture2D(T0,u).rgb,1.)*w;
-      u=uvOf(R1,K1,wp); w=vv.y*pow(max(dot(Nf,normalize(P1-wp)),0.),2.5)*inb(u); col+=vec4(texture2D(T1,u).rgb,1.)*w;
-      u=uvOf(R2,K2,wp); w=vv.z*pow(max(dot(Nf,normalize(P2-wp)),0.),2.5)*inb(u); col+=vec4(texture2D(T2,u).rgb,1.)*w;
-      u=uvOf(R3,K3,wp); w=vv.w*pow(max(dot(Nf,normalize(P3-wp)),0.),2.5)*inb(u); col+=vec4(texture2D(T3,u).rgb,1.)*w;
-      vec3 patina=vec3(.36,.43,.38)+.05*sin(wp.x*.9+sin(wp.y*1.3))*cos(wp.z*.7+wp.y*.4);
+      vec4 col=vec4(0.); vec2 u; float w; vec3 t;
+      u=uvOf(R0,K0,wp); w=vv.x*pow(max(dot(Nf,normalize(P0-wp)),0.),2.5)*inb(u)*1.6; t=texture2D(T0,u).rgb; w*=.12+.88*smoothstep(.07,.32,dot(t,vec3(.3,.59,.11))); col+=vec4(t,1.)*w;
+      u=uvOf(R1,K1,wp); w=vv.y*pow(max(dot(Nf,normalize(P1-wp)),0.),2.5)*inb(u); t=texture2D(T1,u).rgb; w*=.12+.88*smoothstep(.07,.32,dot(t,vec3(.3,.59,.11))); col+=vec4(t,1.)*w;
+      u=uvOf(R2,K2,wp); w=vv.z*pow(max(dot(Nf,normalize(P2-wp)),0.),2.5)*inb(u); t=texture2D(T2,u).rgb; w*=.12+.88*smoothstep(.07,.32,dot(t,vec3(.3,.59,.11))); col+=vec4(t,1.)*w;
+      u=uvOf(R3,K3,wp); w=vv.w*pow(max(dot(Nf,normalize(P3-wp)),0.),2.5)*inb(u); t=texture2D(T3,u).rgb; w*=.12+.88*smoothstep(.07,.32,dot(t,vec3(.3,.59,.11))); col+=vec4(t,1.)*w;
+      vec3 patina=(sd<0.&&wa.x<0.5?vec3(.40,.35,.29):vec3(.62,.61,.54))+.04*sin(wp.x*.9+sin(wp.y*1.3))*cos(wp.z*.7+wp.y*.4); // \u7167\u7247\u6CA1\u62CD\u5230\u7684\u5730\u65B9\uFF1A\u5916\u9762\u7528\u7167\u7247\u91CC\u94DC\u9508\u7684\u4E2D\u4F4D\u8272\uFF0C\u91CC\u9762\u7528\u5185\u58C1\u7684\u4E2D\u4F4D\u8272
       vec3 alb=col.a>0.02?mix(patina,col.rgb/col.a,smoothstep(0.02,0.25,col.a)):patina;
+      if(sd>0.||wa.x>0.5){ float lu=dot(alb,vec3(.3,.59,.11)); alb=mix(alb,patina*.85,smoothstep(.3,.1,lu)*.65); } // \u7167\u7247\u91CC\u773C\u67F1\u5E95\u4E0B\u3001\u9F3B\u5B50\u5E95\u4E0B\u7684\u5927\u5757\u6295\u5F71\u662F\u5C55\u5385\u706F\u6253\u7684\uFF0C\u8F6C\u8D77\u6765\u4F1A\u7A7F\u5E2E\uFF1A\u5916\u8868\u9762\u592A\u6697\u7684\u5730\u65B9\u5F80\u94DC\u9508\u8272\u62C9\u56DE\u4E00\u4E9B\uFF0C\u660E\u6697\u4EA4\u7ED9\u7F51\u9875\u91CC\u7684\u706F
       if(mode>0.5){ gl_FragColor=vec4(mode>1.5?vec3(.9,.95,1.)*(.35+.65*max(dot(Nf,normalize(vec3(.3,.6,1.))),0.)):alb,1.); return; }
-      vec3 L=lamp-wp; float dl=length(L); L/=dl; float att=lampK/(1.+dl*dl*0.00012);
+      vec3 L=lamp-wp; float dl=length(L); L/=dl; float att=lampK*2./(1.+dl*dl/22500.);
       float df=max(dot(Nf,L),0.); vec3 H=normalize(L+V); float sp=pow(max(dot(Nf,H),0.),24.)*0.22*att;
-      vec3 c=alb*(amb+df*att*vec3(1.,.93,.82))*1.15+sp*vec3(1.,.95,.85);
-      if(sd<0.&&wa.x<0.5) c*=.82;
+      vec3 c=alb*(amb+df*att*vec3(1.,.96,.9))*1.08+sp*vec3(1.,.96,.88); // \u8D34\u56FE\u672C\u8EAB\u5E26\u7740\u7167\u7247\u91CC\u7684\u660E\u6697\uFF0C\u706F\u53EA\u5728 1 \u4E0A\u4E0B\u8C03
+      if(sd<0.&&wa.x<0.5) c=c*.9+alb*.22; // \u5185\u58C1\u7167\u4E0D\u5230\u706F\uFF0C\u8865\u4E00\u70B9\u73AF\u5883\u5149
       gl_FragColor=vec4(pow(c,vec3(0.95)),1.);
-    }`,m=(i,M)=>{const p=t.createShader(i);if(t.shaderSource(p,M),t.compileShader(p),!t.getShaderParameter(p,t.COMPILE_STATUS))throw new Error(t.getShaderInfoLog(p));return p},a=t.createProgram();t.attachShader(a,m(t.VERTEX_SHADER,x)),t.attachShader(a,m(t.FRAGMENT_SHADER,f)),t.linkProgram(a),t.useProgram(a);const u=(i,M,p)=>{const R=t.createBuffer();t.bindBuffer(t.ARRAY_BUFFER,R),t.bufferData(t.ARRAY_BUFFER,i,t.STATIC_DRAW);const E=t.getAttribLocation(a,M);t.enableVertexAttribArray(E),t.vertexAttribPointer(E,p,t.FLOAT,!1,0,0)};u(r.P,"p",3),u(r.N,"n",3),u(r.A,"a",3),u(d,"v",4);const l=t.createBuffer();t.bindBuffer(t.ELEMENT_ARRAY_BUFFER,l),t.bufferData(t.ELEMENT_ARRAY_BUFFER,r.I,t.STATIC_DRAW);const h=i=>t.getUniformLocation(a,i);t.uniform3fv(h("C0"),CAMS.C0),c.forEach((i,M)=>{t.uniformMatrix3fv(h("R"+M),!1,new Float32Array([i.R[0][0],i.R[1][0],i.R[2][0],i.R[0][1],i.R[1][1],i.R[2][1],i.R[0][2],i.R[1][2],i.R[2][2]])),t.uniform4f(h("K"+M),i.f,i.tx,i.ty,i.dist),t.uniform3fv(h("P"+M),i.pos),t.uniform1i(h("T"+M),M)});let w=0;const T=()=>{y=1};PHOTOS.forEach(([i],M)=>{const p=t.createTexture();t.activeTexture(t.TEXTURE0+M),t.bindTexture(t.TEXTURE_2D,p),t.texImage2D(t.TEXTURE_2D,0,t.RGB,1,1,0,t.RGB,t.UNSIGNED_BYTE,new Uint8Array([90,110,98])),[t.TEXTURE_WRAP_S,t.TEXTURE_WRAP_T].forEach(E=>t.texParameteri(t.TEXTURE_2D,E,t.CLAMP_TO_EDGE)),t.texParameteri(t.TEXTURE_2D,t.TEXTURE_MIN_FILTER,t.LINEAR),t.texParameteri(t.TEXTURE_2D,t.TEXTURE_MAG_FILTER,t.LINEAR);const R=new Image;R.onload=()=>{t.activeTexture(t.TEXTURE0+M),t.bindTexture(t.TEXTURE_2D,p),t.texImage2D(t.TEXTURE_2D,0,t.RGB,t.RGB,t.UNSIGNED_BYTE,R),w++,w===4&&document.body.classList.add("ready"),T()},R.src="assets/m3d_"+i+".webp"}),t.enable(t.DEPTH_TEST),t.disable(t.CULL_FACE);const o={yaw:-.5,pitch:.12,dist:230,tgt:[0,34,-14],mode:"turn",lamp:[-60,110,140],cmp:-1,auto:1,lampOn:0},A=(i,M,p,R)=>{const E=1/Math.tan(i/2);return[E/M,0,0,0,0,E,0,0,0,0,(R+p)/(p-R),-1,0,0,2*R*p/(p-R),0]},D=(i,M)=>{const p=new Array(16).fill(0);for(let R=0;R<4;R++)for(let E=0;E<4;E++)for(let P=0;P<4;P++)p[R*4+E]+=i[P*4+E]*M[R*4+P];return p},H=(i,M)=>{const p=V.norm(V.sub(i,M)),R=V.norm(V.cross([0,1,0],p)),E=V.cross(p,R);return[R[0],E[0],p[0],0,R[1],E[1],p[1],0,R[2],E[2],p[2],0,-V.dot(R,i),-V.dot(E,i),-V.dot(p,i),1]};let y=1,s=1,v=1;function g(){return[o.tgt[0]+o.dist*Math.cos(o.pitch)*Math.sin(o.yaw),o.tgt[1]+o.dist*Math.sin(o.pitch),o.tgt[2]+o.dist*Math.cos(o.pitch)*Math.cos(o.yaw)]}function b(){if(o.cmp>=0){const M=c[o.cmp],p=Math.min(s/960,v/640),R=(s-960*p)/2,E=(v-640*p)/2,P=M.R,Y=10,z=2e3,U=[P[0][0],P[1][0],P[2][0],0,P[0][1],P[1][1],P[2][1],0,P[0][2],P[1][2],P[2][2],0,0,0,0,1],X=[1,0,0,0,0,1,0,0,0,0,1,0,-M.C0[0],-M.C0[1],-M.C0[2],1],q=[1,0,0,0,0,1,0,0,0,0,1,0,0,0,-M.dist,1],$=[2*p*M.f/s,0,0,0,0,2*p*M.f/v,0,0,-(2*(R+p*M.tx)/s-1),2*(E+p*M.ty)/v-1,(z+Y)/(Y-z),-1,0,0,2*z*Y/(Y-z),0];return{VP:D($,D(q,D(U,X))),eye:M.pos}}const i=g();return{VP:D(A(.62,s/v,10,2e3),H(i,o.tgt)),eye:i}}function I(i){if(requestAnimationFrame(I),o.auto&&o.cmp<0&&(o.yaw=-.5+.55*Math.sin(i/3600),y=1),!o.lampOn){const P=i/2600;o.lamp=[Math.sin(P)*110,95+25*Math.cos(P*.7),120],y=1}if(!y)return;y=0;const M=Math.min(2,window.devicePixelRatio||1),p=e.clientWidth,R=e.clientHeight;(e.width!==Math.round(p*M)||e.height!==Math.round(R*M))&&(e.width=Math.round(p*M),e.height=Math.round(R*M)),s=p,v=R,o.zoomed||(o.dist=Math.max(230,84/(Math.tan(.31)*s/v))),t.viewport(0,0,e.width,e.height),t.clearColor(0,0,0,0),t.clear(t.COLOR_BUFFER_BIT|t.DEPTH_BUFFER_BIT);const E=b();t.uniformMatrix4fv(h("VP"),!1,new Float32Array(E.VP)),t.uniform3fv(h("eye"),E.eye),t.uniform3fv(h("lamp"),o.lamp),t.uniform1f(h("lampK"),o.cmp>=0?.9:1),t.uniform1f(h("amb"),o.cmp>=0?.55:o.mode==="lamp"?.1:.2),t.uniform1f(h("mode"),o.cmp>=0&&+n("albedo").dataset.m||0),t.drawElements(t.TRIANGLES,r.I.length,t.UNSIGNED_SHORT,0)}requestAnimationFrame(I);const S=new Map;let L=0,_=0;const F=(i,M)=>{const p=e.getBoundingClientRect(),R=(i-p.left)/p.width*2-1,E=1-(M-p.top)/p.height*2,P=b(),Y=P.eye,z=V.norm(V.sub(Y,o.tgt)),U=V.norm(V.cross([0,1,0],z)),X=V.cross(z,U);o.lamp=V.add(V.add(o.tgt,V.mul(z,70)),V.add(V.mul(U,R*110*(s/v+.4)),V.mul(X,E*110))),o.lampOn=1,y=1};e.addEventListener("pointerdown",i=>{if(e.setPointerCapture(i.pointerId),S.set(i.pointerId,[i.clientX,i.clientY]),o.auto=0,n("hint").classList.add("dim"),S.size===2){const[M,p]=[...S.values()];L=Math.hypot(M[0]-p[0],M[1]-p[1]),_=o.dist}else o.mode==="lamp"&&F(i.clientX,i.clientY)}),e.addEventListener("pointermove",i=>{if(!S.has(i.pointerId))return;const M=S.get(i.pointerId),p=i.clientX-M[0],R=i.clientY-M[1];if(S.set(i.pointerId,[i.clientX,i.clientY]),S.size===2){const[E,P]=[...S.values()];o.zoomed=1,o.dist=Math.max(110,Math.min(650,_*L/Math.max(10,Math.hypot(E[0]-P[0],E[1]-P[1])))),y=1;return}o.cmp>=0||(o.mode==="lamp"?F(i.clientX,i.clientY):(o.yaw-=p*.008,o.pitch=Math.max(-.5,Math.min(1.2,o.pitch+R*.006)),y=1))});const N=i=>{S.delete(i.pointerId)};e.addEventListener("pointerup",N),e.addEventListener("pointercancel",N),e.addEventListener("wheel",i=>{i.preventDefault(),o.zoomed=1,o.dist=Math.max(110,Math.min(650,o.dist*(1+i.deltaY*.001))),y=1},{passive:!1});const O=i=>{o.mode=i,n("bTurn").classList.toggle("on",i==="turn"),n("bLamp").classList.toggle("on",i==="lamp"),n("hint").textContent=i==="lamp"?"\u624B\u6307\u6309\u5728\u54EA\uFF0C\u706F\u5C31\u7167\u5728\u54EA\uFF1A\u659C\u7740\u7167\uFF0C\u7EB9\u8DEF\u6700\u6E05\u695A":"\u62D6\u52A8\u8F6C\u4E00\u8F6C \xB7 \u4E24\u6307\u7F29\u653E",n("hint").classList.remove("dim")};n("bTurn").onclick=()=>{W(),O("turn")},n("bLamp").onclick=()=>{W(),O("lamp")};const B=n("ov"),k=n("cmpbar");function K(i){o.cmp=i,o.auto=0;const[M,p]=PHOTOS[i];B.src="assets/m3d_"+M+".webp",document.body.classList.add("cmp"),n("cmpT").textContent=`\u5BF9\u7167 ${i+1}/4 \xB7 ${p}\u7167\u7247`,B.style.opacity=n("mix").value/100,y=1}function W(){o.cmp<0||(o.cmp=-1,document.body.classList.remove("cmp"),y=1)}n("bCmp").onclick=()=>K(o.cmp<0?0:(o.cmp+1)%4),n("cmpNext").onclick=()=>K((o.cmp+1)%4),n("cmpX").onclick=W,n("mix").oninput=()=>{B.style.opacity=n("mix").value/100},n("albedo").onclick=()=>{const i=n("albedo"),M=((+i.dataset.m||0)+1)%3;i.dataset.m=M,i.textContent=["\u770B\uFF1A\u5E26\u706F","\u770B\uFF1A\u53EA\u8D34\u56FE","\u770B\uFF1A\u53EA\u5F62\u72B6"][M],y=1},n("bInfo").onclick=()=>n("info").classList.toggle("hide"),n("infoX").onclick=()=>n("info").classList.add("hide"),window.addEventListener("resize",()=>{y=1});const C=new URLSearchParams(location.search);C.has("cmp")&&(K(+C.get("cmp")),n("mix").value=C.get("mix")||50,B.style.opacity=n("mix").value/100,C.has("m")&&(n("albedo").dataset.m=C.get("m"))),C.has("yaw")&&(o.yaw=+C.get("yaw"),o.pitch=+(C.get("pitch")||.12),o.auto=0),C.has("lx")&&(o.lamp=C.get("lx").split(",").map(Number),o.lampOn=1),C.has("dist")&&(o.dist=+C.get("dist"),o.zoomed=1),C.has("lamp")&&O("lamp"),window.__look={st:o,need:()=>{y=1}}}();
+    }`,m=(i,M)=>{const p=t.createShader(i);if(t.shaderSource(p,M),t.compileShader(p),!t.getShaderParameter(p,t.COMPILE_STATUS))throw new Error(t.getShaderInfoLog(p));return p},r=t.createProgram();t.attachShader(r,m(t.VERTEX_SHADER,x)),t.attachShader(r,m(t.FRAGMENT_SHADER,f)),t.linkProgram(r),t.useProgram(r);const d=(i,M,p)=>{const R=t.createBuffer();t.bindBuffer(t.ARRAY_BUFFER,R),t.bufferData(t.ARRAY_BUFFER,i,t.STATIC_DRAW);const E=t.getAttribLocation(r,M);t.enableVertexAttribArray(E),t.vertexAttribPointer(E,p,t.FLOAT,!1,0,0)};d(a.P,"p",3),d(a.N,"n",3),d(a.A,"a",3),d(u,"v",4);const s=t.createBuffer();t.bindBuffer(t.ELEMENT_ARRAY_BUFFER,s),t.bufferData(t.ELEMENT_ARRAY_BUFFER,a.I,t.STATIC_DRAW);const h=i=>t.getUniformLocation(r,i);t.uniform3fv(h("C0"),CAMS.C0),c.forEach((i,M)=>{t.uniformMatrix3fv(h("R"+M),!1,new Float32Array([i.R[0][0],i.R[1][0],i.R[2][0],i.R[0][1],i.R[1][1],i.R[2][1],i.R[0][2],i.R[1][2],i.R[2][2]])),t.uniform4f(h("K"+M),i.f,i.tx,i.ty,i.dist),t.uniform3fv(h("P"+M),i.pos),t.uniform1i(h("T"+M),M)});let w=0;const T=()=>{b=1};PHOTOS.forEach(([i],M)=>{const p=t.createTexture();t.activeTexture(t.TEXTURE0+M),t.bindTexture(t.TEXTURE_2D,p),t.texImage2D(t.TEXTURE_2D,0,t.RGB,1,1,0,t.RGB,t.UNSIGNED_BYTE,new Uint8Array([90,110,98])),[t.TEXTURE_WRAP_S,t.TEXTURE_WRAP_T].forEach(E=>t.texParameteri(t.TEXTURE_2D,E,t.CLAMP_TO_EDGE)),t.texParameteri(t.TEXTURE_2D,t.TEXTURE_MIN_FILTER,t.LINEAR),t.texParameteri(t.TEXTURE_2D,t.TEXTURE_MAG_FILTER,t.LINEAR);const R=new Image;R.onload=()=>{t.activeTexture(t.TEXTURE0+M),t.bindTexture(t.TEXTURE_2D,p),t.texImage2D(t.TEXTURE_2D,0,t.RGB,t.RGB,t.UNSIGNED_BYTE,R),w++,w===4&&document.body.classList.add("ready"),T()},R.src="assets/m3d_"+i+".webp"}),t.enable(t.DEPTH_TEST),t.disable(t.CULL_FACE);const o={yaw:-.5,pitch:.12,dist:230,tgt:[0,34,-14],mode:"turn",lamp:[-60,110,140],cmp:-1,auto:1,lampOn:0},A=(i,M,p,R)=>{const E=1/Math.tan(i/2);return[E/M,0,0,0,0,E,0,0,0,0,(R+p)/(p-R),-1,0,0,2*R*p/(p-R),0]},D=(i,M)=>{const p=new Array(16).fill(0);for(let R=0;R<4;R++)for(let E=0;E<4;E++)for(let P=0;P<4;P++)p[R*4+E]+=i[P*4+E]*M[R*4+P];return p},H=(i,M)=>{const p=V.norm(V.sub(i,M)),R=V.norm(V.cross([0,1,0],p)),E=V.cross(p,R);return[R[0],E[0],p[0],0,R[1],E[1],p[1],0,R[2],E[2],p[2],0,-V.dot(R,i),-V.dot(E,i),-V.dot(p,i),1]};let b=1,l=1,v=1;function g(){return[o.tgt[0]+o.dist*Math.cos(o.pitch)*Math.sin(o.yaw),o.tgt[1]+o.dist*Math.sin(o.pitch),o.tgt[2]+o.dist*Math.cos(o.pitch)*Math.cos(o.yaw)]}function y(){if(o.cmp>=0){const M=c[o.cmp],p=Math.min(l/960,v/640),R=(l-960*p)/2,E=(v-640*p)/2,P=M.R,Y=10,z=2e3,U=[P[0][0],P[1][0],P[2][0],0,P[0][1],P[1][1],P[2][1],0,P[0][2],P[1][2],P[2][2],0,0,0,0,1],X=[1,0,0,0,0,1,0,0,0,0,1,0,-M.C0[0],-M.C0[1],-M.C0[2],1],q=[1,0,0,0,0,1,0,0,0,0,1,0,0,0,-M.dist,1],$=[2*p*M.f/l,0,0,0,0,2*p*M.f/v,0,0,-(2*(R+p*M.tx)/l-1),2*(E+p*M.ty)/v-1,(z+Y)/(Y-z),-1,0,0,2*z*Y/(Y-z),0];return{VP:D($,D(q,D(U,X))),eye:M.pos}}const i=g();return{VP:D(A(.62,l/v,10,2e3),H(i,o.tgt)),eye:i}}function I(i){if(requestAnimationFrame(I),o.auto&&o.cmp<0&&(o.yaw=-.5+.55*Math.sin(i/3600),b=1),!o.lampOn){const P=i/2600;o.lamp=[Math.sin(P)*110,95+25*Math.cos(P*.7),120],b=1}if(!b)return;b=0;const M=Math.min(2,window.devicePixelRatio||1),p=e.clientWidth,R=e.clientHeight;(e.width!==Math.round(p*M)||e.height!==Math.round(R*M))&&(e.width=Math.round(p*M),e.height=Math.round(R*M)),l=p,v=R,o.zoomed||(o.dist=Math.max(230,84/(Math.tan(.31)*l/v))),t.viewport(0,0,e.width,e.height),t.clearColor(0,0,0,0),t.clear(t.COLOR_BUFFER_BIT|t.DEPTH_BUFFER_BIT);const E=y();t.uniformMatrix4fv(h("VP"),!1,new Float32Array(E.VP)),t.uniform3fv(h("eye"),E.eye),t.uniform3fv(h("lamp"),o.lamp),t.uniform1f(h("lampK"),o.cmp>=0?.4:o.mode==="lamp"?1.15:.62),t.uniform1f(h("amb"),o.cmp>=0?.72:o.mode==="lamp"?.12:.5),t.uniform1f(h("mode"),o.cmp>=0&&+n("albedo").dataset.m||0),t.drawElements(t.TRIANGLES,a.I.length,t.UNSIGNED_SHORT,0)}requestAnimationFrame(I);const S=new Map;let L=0,_=0;const F=(i,M)=>{const p=e.getBoundingClientRect(),R=(i-p.left)/p.width*2-1,E=1-(M-p.top)/p.height*2,P=y(),Y=P.eye,z=V.norm(V.sub(Y,o.tgt)),U=V.norm(V.cross([0,1,0],z)),X=V.cross(z,U);o.lamp=V.add(V.add(o.tgt,V.mul(z,70)),V.add(V.mul(U,R*110*(l/v+.4)),V.mul(X,E*110))),o.lampOn=1,b=1};e.addEventListener("pointerdown",i=>{if(e.setPointerCapture(i.pointerId),S.set(i.pointerId,[i.clientX,i.clientY]),o.auto=0,n("hint").classList.add("dim"),S.size===2){const[M,p]=[...S.values()];L=Math.hypot(M[0]-p[0],M[1]-p[1]),_=o.dist}else o.mode==="lamp"&&F(i.clientX,i.clientY)}),e.addEventListener("pointermove",i=>{if(!S.has(i.pointerId))return;const M=S.get(i.pointerId),p=i.clientX-M[0],R=i.clientY-M[1];if(S.set(i.pointerId,[i.clientX,i.clientY]),S.size===2){const[E,P]=[...S.values()];o.zoomed=1,o.dist=Math.max(110,Math.min(650,_*L/Math.max(10,Math.hypot(E[0]-P[0],E[1]-P[1])))),b=1;return}o.cmp>=0||(o.mode==="lamp"?F(i.clientX,i.clientY):(o.yaw-=p*.008,o.pitch=Math.max(-.5,Math.min(1.2,o.pitch+R*.006)),b=1))});const N=i=>{S.delete(i.pointerId)};e.addEventListener("pointerup",N),e.addEventListener("pointercancel",N),e.addEventListener("wheel",i=>{i.preventDefault(),o.zoomed=1,o.dist=Math.max(110,Math.min(650,o.dist*(1+i.deltaY*.001))),b=1},{passive:!1});const O=i=>{o.mode=i,n("bTurn").classList.toggle("on",i==="turn"),n("bLamp").classList.toggle("on",i==="lamp"),n("hint").textContent=i==="lamp"?"\u624B\u6307\u6309\u5728\u54EA\uFF0C\u706F\u5C31\u7167\u5728\u54EA\uFF1A\u659C\u7740\u7167\uFF0C\u7EB9\u8DEF\u6700\u6E05\u695A":"\u62D6\u52A8\u8F6C\u4E00\u8F6C \xB7 \u4E24\u6307\u7F29\u653E",n("hint").classList.remove("dim")};n("bTurn").onclick=()=>{W(),O("turn")},n("bLamp").onclick=()=>{W(),O("lamp")};const B=n("ov"),k=n("cmpbar");function K(i){o.cmp=i,o.auto=0;const[M,p]=PHOTOS[i];B.src="assets/m3d_"+M+".webp",document.body.classList.add("cmp"),n("cmpT").textContent=`\u5BF9\u7167 ${i+1}/4 \xB7 ${p}\u7167\u7247`,B.style.opacity=n("mix").value/100,b=1}function W(){o.cmp<0||(o.cmp=-1,document.body.classList.remove("cmp"),b=1)}n("bCmp").onclick=()=>K(o.cmp<0?0:(o.cmp+1)%4),n("cmpNext").onclick=()=>K((o.cmp+1)%4),n("cmpX").onclick=W,n("mix").oninput=()=>{B.style.opacity=n("mix").value/100},n("albedo").onclick=()=>{const i=n("albedo"),M=((+i.dataset.m||0)+1)%3;i.dataset.m=M,i.textContent=["\u770B\uFF1A\u5E26\u706F","\u770B\uFF1A\u53EA\u8D34\u56FE","\u770B\uFF1A\u53EA\u5F62\u72B6"][M],b=1},n("bInfo").onclick=()=>n("info").classList.toggle("hide"),n("infoX").onclick=()=>n("info").classList.add("hide"),window.addEventListener("resize",()=>{b=1});const C=new URLSearchParams(location.search);C.has("cmp")&&(K(+C.get("cmp")),n("mix").value=C.get("mix")||50,B.style.opacity=n("mix").value/100,C.has("m")&&(n("albedo").dataset.m=C.get("m"))),C.has("yaw")&&(o.yaw=+C.get("yaw"),o.pitch=+(C.get("pitch")||.12),o.auto=0),C.has("lx")&&(o.lamp=C.get("lx").split(",").map(Number),o.lampOn=1),C.has("dist")&&(o.dist=+C.get("dist"),o.zoomed=1),C.has("lamp")&&O("lamp"),window.__look={st:o,need:()=>{b=1}}}();
